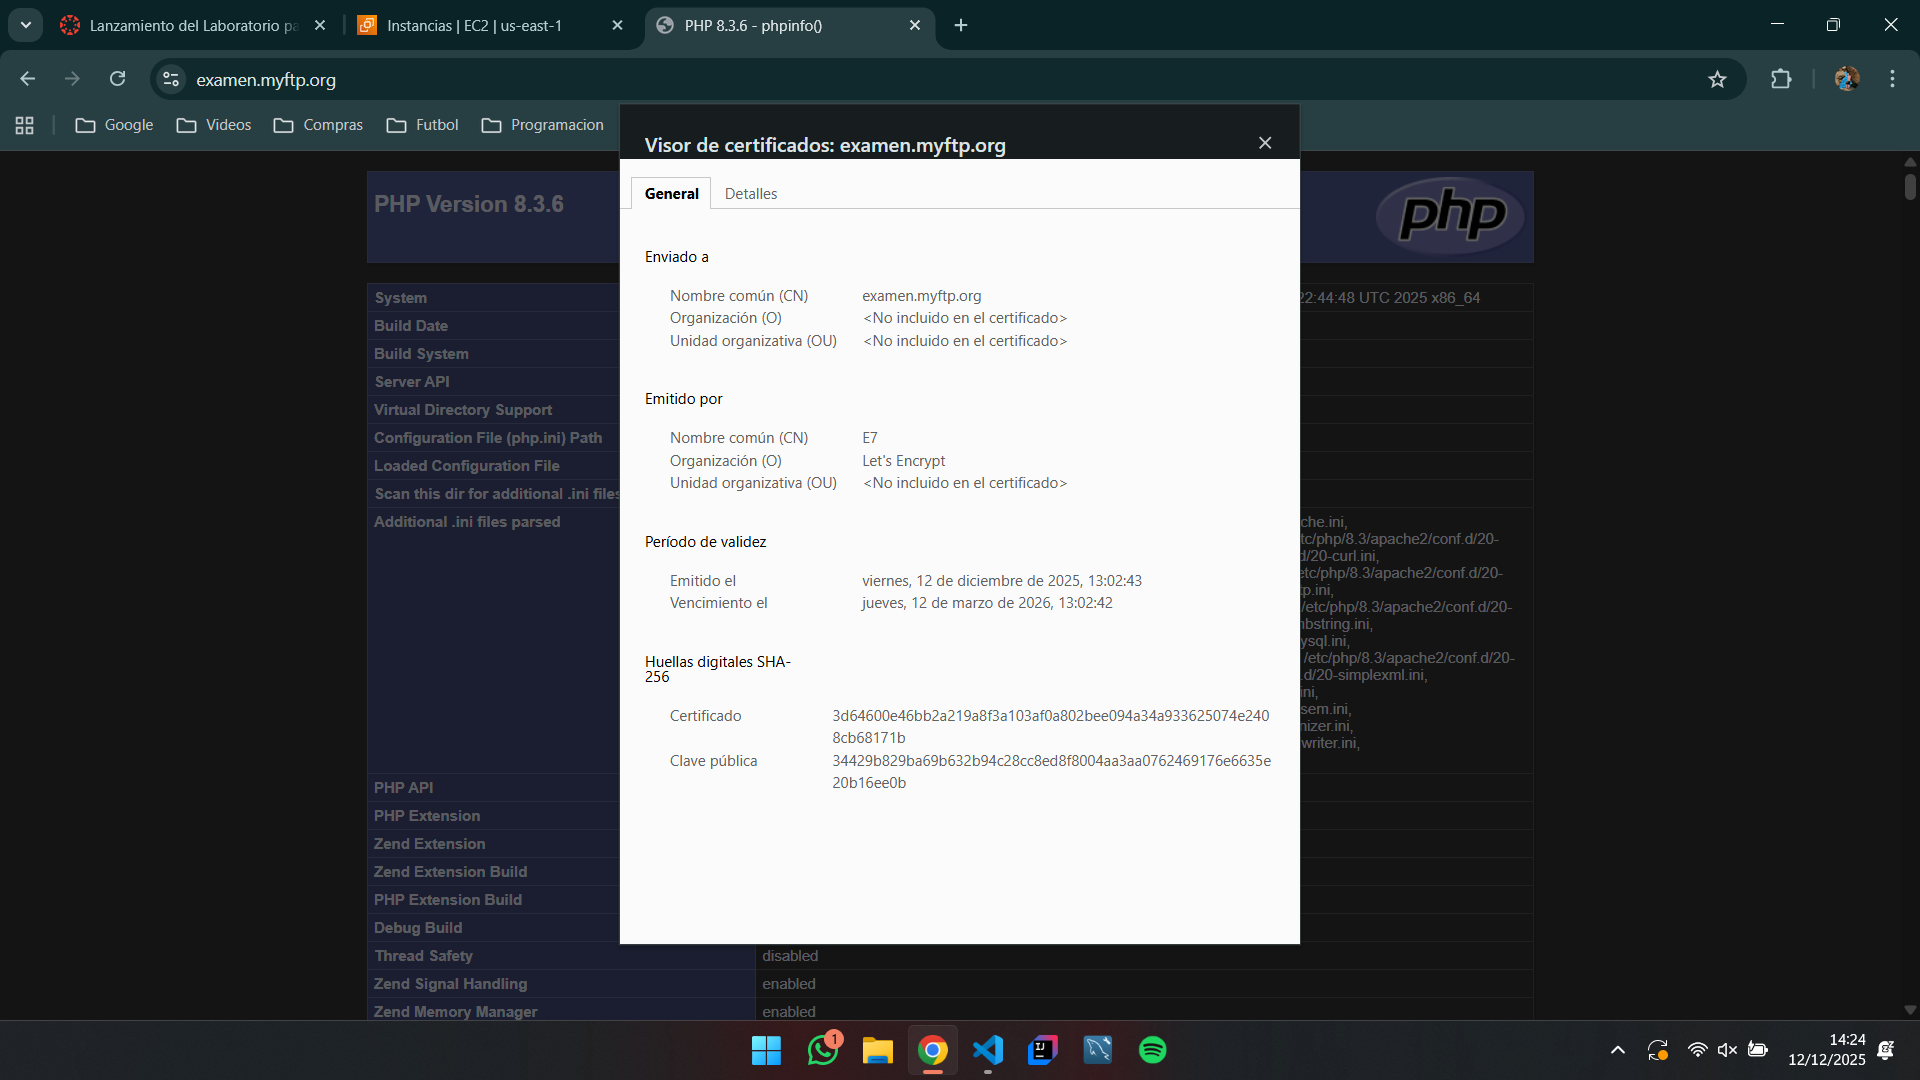
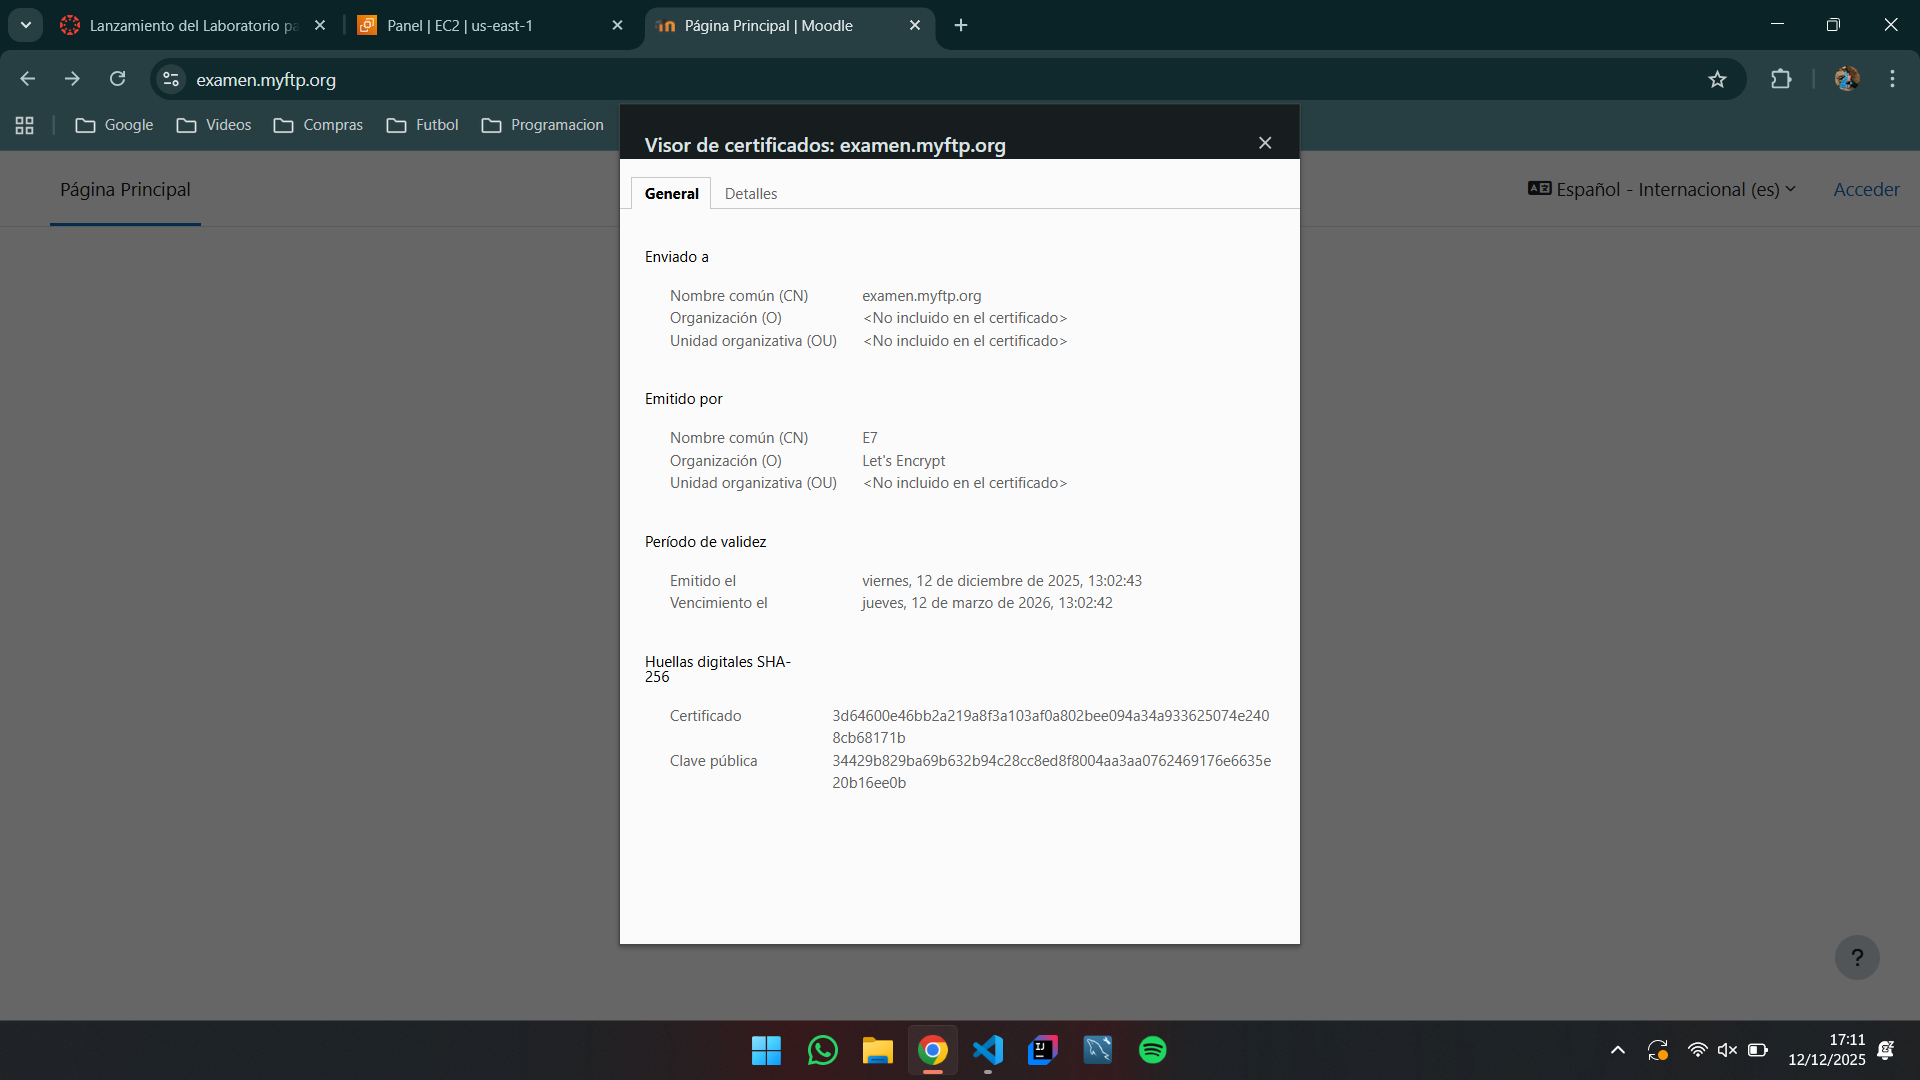
Termino el examen

diff --git a/README.md b/README.md
@@ -33,5 +33,14 @@
 ### Deploy_Moodle_Frontend
 ![Deploy_Moodle_Frontend](images/deploy_moodle_frontend.png)
 
+### Pagina Principal
+![Pagina Principal](images/pagina_principal.png)
+
 ### Certificado
 ![Certificado](images/certificado.png)
+
+### Login
+![Login](images/login.png)
+
+### Dashboard Moodle
+![Dashboard Moodle](images/dashboard_moodle.png)
